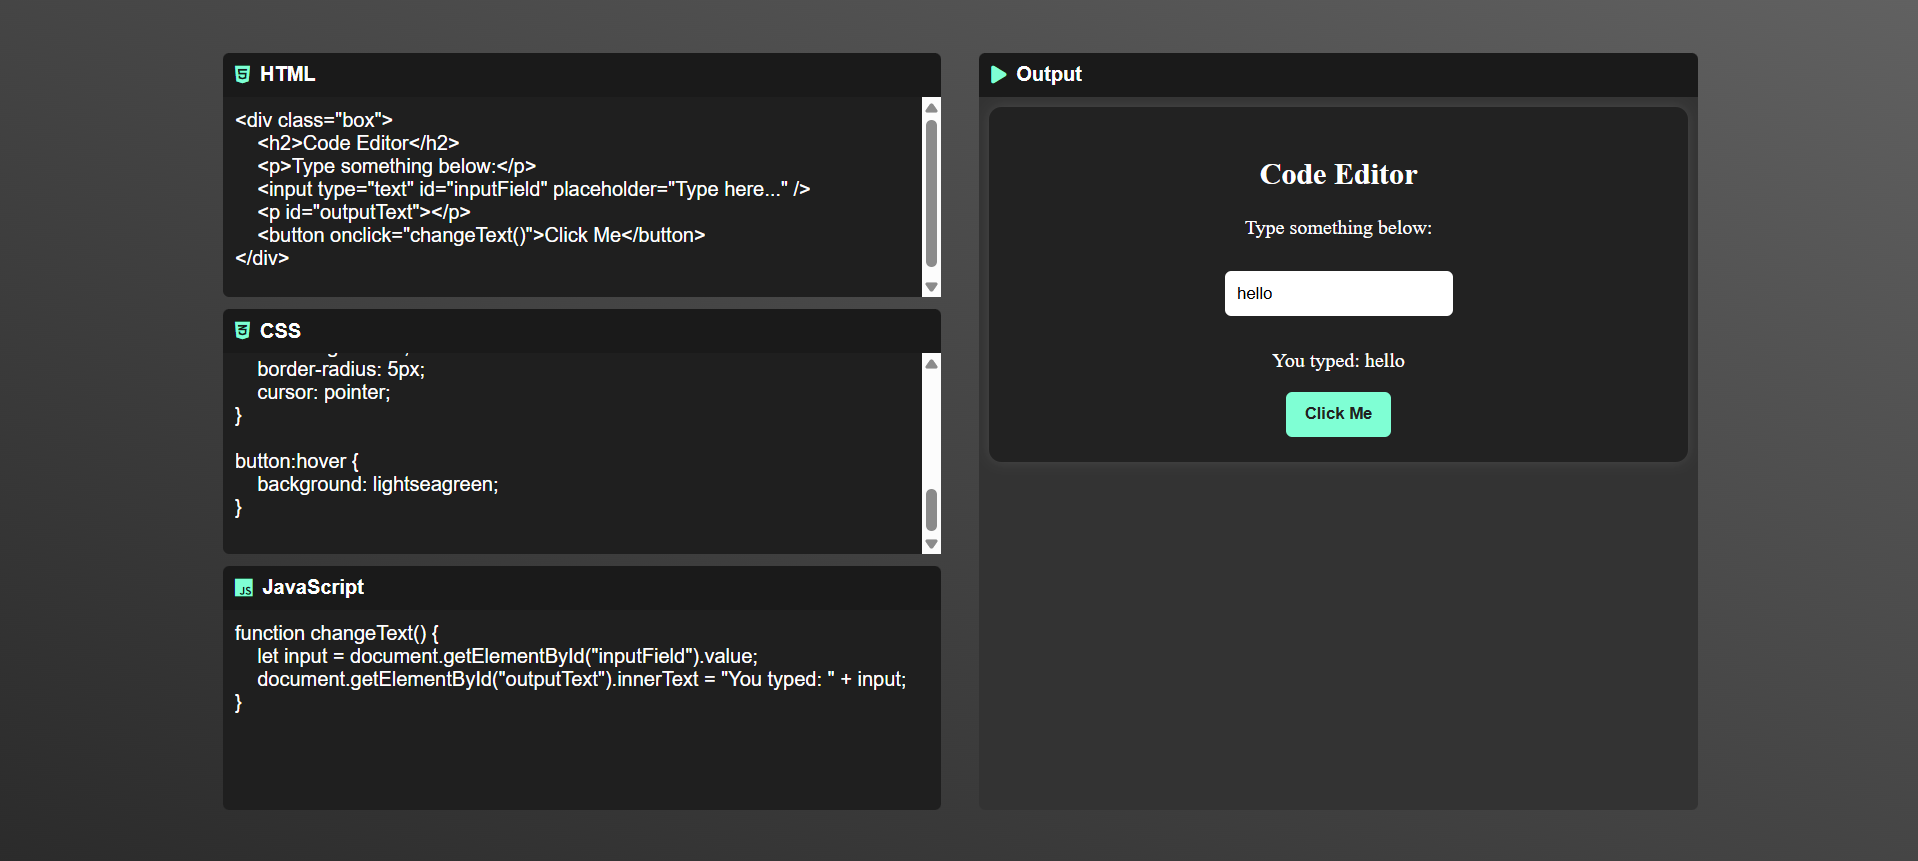
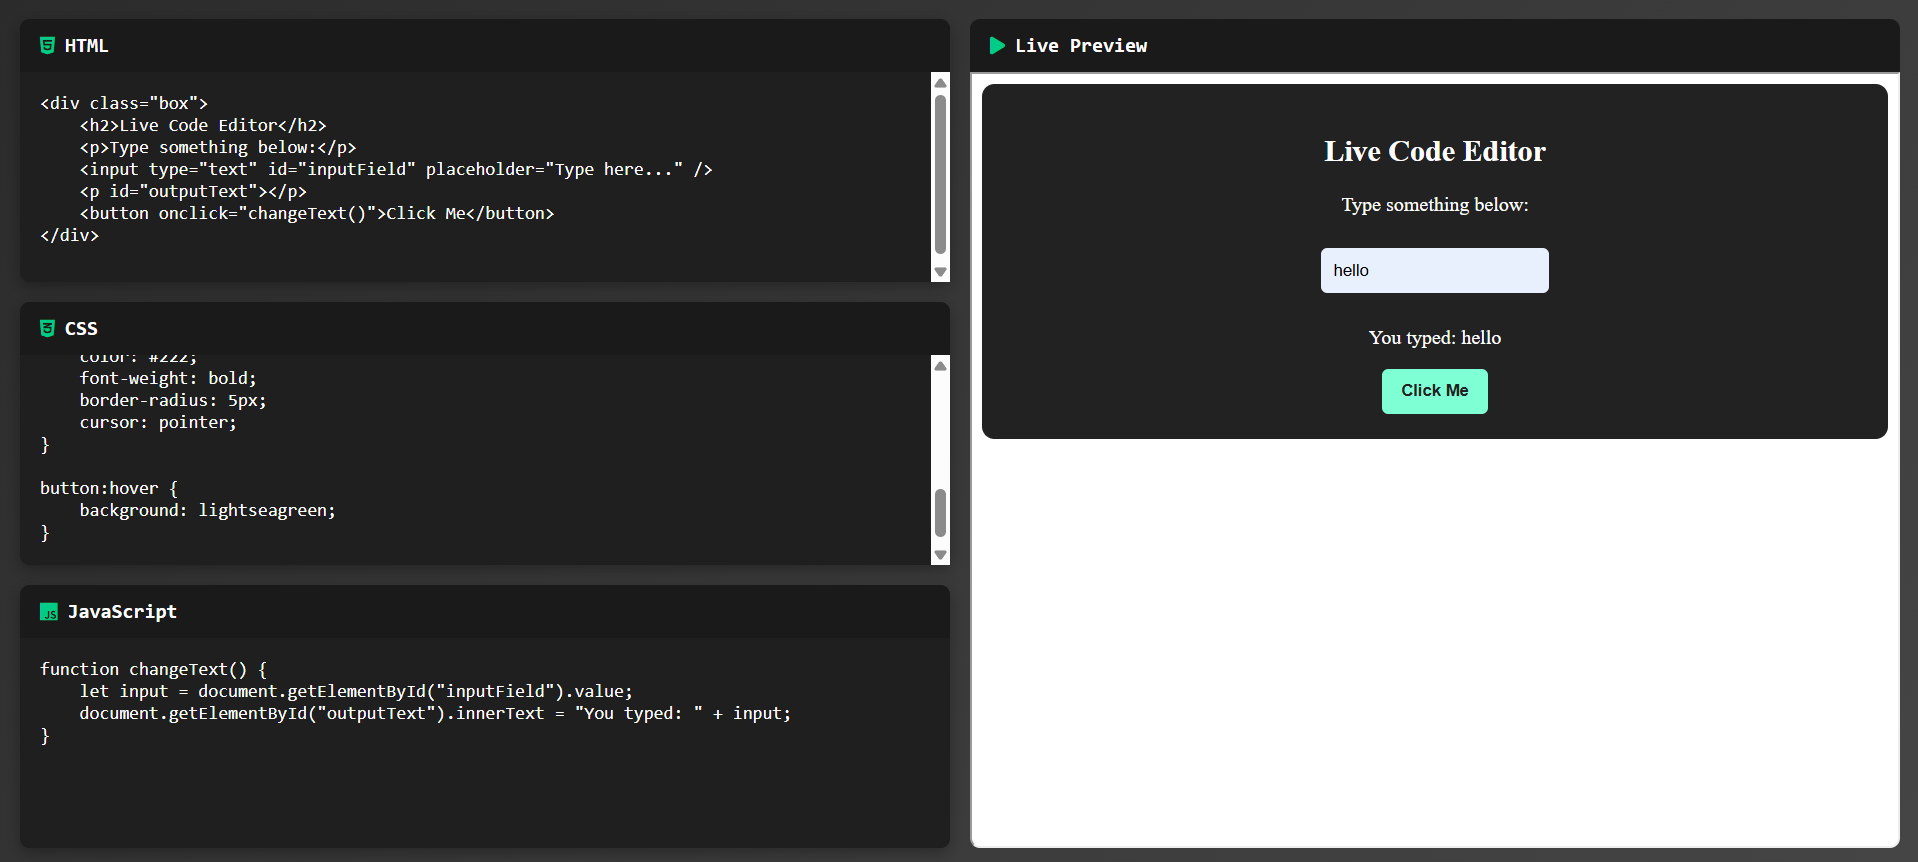
added

diff --git a/style.css b/style.css
@@ -1,102 +1,95 @@
+/* style.css */
+:root {
+    --primary-bg: #1a1a1a;
+    --editor-bg: #1f1f1f;
+    --accent-color: #00cc88;
+    --text-primary: #ffffff;
+    --border-radius: 8px;
+}
+
 * {
     margin: 0;
     padding: 0;
     box-sizing: border-box;
-    font-family: 'Poppins', sans-serif;
 }
 
 body {
-    background: linear-gradient(to right top, #2b2b2b, #383838, #454545, #525252, #616161);
-    color: #fff;
-    height: 100vh;
-    display: flex;
-    align-items: center;
-    justify-content: center;
+    background: linear-gradient(135deg, #2b2b2b, #454545);
+    color: var(--text-primary);
+    min-height: 100vh;
+    font-family: 'Fira Code', monospace;
 }
 
 .container {
-    width: 90%;
-    max-width: 1200px;
-    height: 90vh;
     display: flex;
-    gap: 10px;
+    gap: 1rem;
+    padding: 1rem;
+    height: 100vh;
 }
 
-.left, .right {
-    flex: 1;
-    padding: 10px;
-}
-
-.left {
-    display: flex;
-    flex-direction: column;
-    gap: 10px;
-}
-
-.box {
+.editor-panel {
     flex: 1;
     display: flex;
     flex-direction: column;
+    gap: 1rem;
+}
+
+.preview-panel {
+    flex: 1;
+    display: flex;
+    flex-direction: column;
+}
+
+.editor-box {
+    flex: 1;
+    display: flex;
+    flex-direction: column;
+    background: var(--primary-bg);
+    border-radius: var(--border-radius);
+    box-shadow: 0 4px 12px rgba(0, 0, 0, 0.3);
+}
+
+.editor-label, .preview-label {
+    padding: 0.75rem 1rem;
+    background: var(--primary-bg);
+    border-radius: var(--border-radius) var(--border-radius) 0 0;
+    display: flex;
+    align-items: center;
+    gap: 0.5rem;
+    font-weight: 600;
 }
 
 textarea {
     flex: 1;
-    width: 100%;
-    resize: none;
-    background-color: #1f1f1f;
-    color: #fff;
-    padding: 10px;
+    background: var(--editor-bg);
+    color: var(--text-primary);
     border: none;
-    outline: none;
-    font-size: 16px;
-    border-radius: 0px 0px 5px 5px;
-    transition: background 0.3s;
+    padding: 1rem;
+    font-family: 'Fira Code', monospace;
+    font-size: 0.9rem;
+    resize: none;
+    border-radius: 0 0 var(--border-radius) var(--border-radius);
+    transition: all 0.3s ease;
 }
 
 textarea:focus {
-    background-color: #2a2a2a;
+    outline: 2px solid var(--accent-color);
+    box-shadow: 0 0 12px rgba(0, 204, 136, 0.2);
 }
 
-.right {
-    display: flex;
-    flex-direction: column;
-}
-
-iframe {
+#output {
     flex: 1;
-    width: 100%;
-    border: none;
-    background-color: #333;
-    border-radius: 0px 0px 5px 5px;
+    background: white;
+    border-radius: 0 0 var(--border-radius) var(--border-radius);
 }
 
-label {
-    display: flex;
-    align-items: center;
-    background-color: #1a1a1a;
-    height: 35px;
-    padding: 5px 10px;
-    font-weight: bold;
-    border-radius: 5px 5px 0 0;
+.fa-brands, .fa-solid {
+    color: var(--accent-color);
 }
 
-label i {
-    margin-right: 8px;
-    color: aquamarine;
-}
-
-/* Responsive Enhancements */
 @media (max-width: 768px) {
     .container {
         flex-direction: column;
         height: auto;
-    }
-
-    .left, .right {
-        width: 100%;
-    }
-
-    textarea {
-        font-size: 14px;
     }
 }

diff --git a/index.html b/index.html
@@ -1,35 +1,51 @@
+<!-- index.html -->
 <!DOCTYPE html>
 <html lang="en">
 <head>
     <meta charset="UTF-8">
     <meta name="viewport" content="width=device-width, initial-scale=1.0">
     <title>Live Code Editor</title>
-    <link rel="stylesheet" href="style.css">
     <link rel="stylesheet" href="https://cdnjs.cloudflare.com/ajax/libs/font-awesome/6.4.2/css/all.min.css">
+    <link rel="stylesheet" href="style.css">
 </head>
 <body>
-
     <div class="container">
-        <div class="left">
-            <div class="box">
-                <label for="html-code"><i class="fa-brands fa-html5"></i> HTML</label>
-                <textarea id="html-code" aria-label="HTML Editor"></textarea>
+        <div class="editor-panel">
+            <!-- HTML Editor -->
+            <div class="editor-box">
+                <label class="editor-label">
+                    <i class="fa-brands fa-html5"></i>
+                    HTML
+                </label>
+                <textarea id="html-code" placeholder="Enter HTML here..."></textarea>
             </div>
 
-            <div class="box">
-                <label for="css-code"><i class="fa-brands fa-css3-alt"></i> CSS</label>
-                <textarea id="css-code" aria-label="CSS Editor"></textarea>
+            <!-- CSS Editor -->
+            <div class="editor-box">
+                <label class="editor-label">
+                    <i class="fa-brands fa-css3-alt"></i>
+                    CSS
+                </label>
+                <textarea id="css-code" placeholder="Enter CSS here..."></textarea>
             </div>
 
-            <div class="box">
-                <label for="js-code"><i class="fa-brands fa-js"></i> JavaScript</label>
-                <textarea id="js-code" aria-label="JavaScript Editor"></textarea>
+            <!-- JavaScript Editor -->
+            <div class="editor-box">
+                <label class="editor-label">
+                    <i class="fa-brands fa-js"></i>
+                    JavaScript
+                </label>
+                <textarea id="js-code" placeholder="Enter JavaScript here..."></textarea>
             </div>
         </div>
 
-        <div class="right">
-            <label for="output"><i class="fa-solid fa-play"></i> Output</label>
-            <iframe id="output"></iframe>
+        <!-- Output Preview -->
+        <div class="preview-panel">
+            <label class="preview-label">
+                <i class="fa-solid fa-play"></i>
+                Live Preview
+            </label>
+            <iframe id="output" title="Live Code Preview"></iframe>
         </div>
     </div>
 

diff --git a/script.js b/script.js
@@ -1,36 +1,41 @@
-function run() {
-    let htmlCode = document.getElementById("html-code").value;
-    let cssCode = document.getElementById("css-code").value;
-    let jsCode = document.getElementById("js-code").value;
-    let output = document.getElementById("output");
+// script.js
+document.addEventListener('DOMContentLoaded', () => {
+    const editors = {
+        html: document.getElementById('html-code'),
+        css: document.getElementById('css-code'),
+        js: document.getElementById('js-code'),
+        output: document.getElementById('output')
+    };
 
-    const documentContent = `
-        <html>
-            <head>
-                <style>${cssCode}</style>
-            </head>
-            <body>
-                ${htmlCode}
-                <script>
-                    try {
-                        ${jsCode}
-                    } catch (error) {
-                        console.error(error);
-                    }
-                </script>
-            </body>
-        </html>`;
+    // Debounce function for better performance
+    const debounce = (callback, delay = 300) => {
+        let timeout;
+        return (...args) => {
+            clearTimeout(timeout);
+            timeout = setTimeout(() => callback(...args), delay);
+        };
+    };
 
-    output.contentDocument.open();
-    output.contentDocument.write(documentContent);
-    output.contentDocument.close();
-}
+    const updatePreview = () => {
+        try {
+            const html = editors.html.value;
+            const css = `<style>${editors.css.value}</style>`;
+            const js = editors.js.value;
+            
+            const doc = editors.output.contentDocument;
+            doc.open();
+            doc.write(`${html}${css}<script>${js}<\/script>`);
+            doc.close();
+        } catch (error) {
+            console.error('Error updating preview:', error);
+        }
+    };
 
-// Debounce function to prevent excessive function calls on keyup
-let timeout;
-document.querySelectorAll("textarea").forEach((textarea) => {
-    textarea.addEventListener("keyup", () => {
-        clearTimeout(timeout);
-        timeout = setTimeout(run, 500);
-    });
+    // Event listeners with debouncing
+    editors.html.addEventListener('input', debounce(updatePreview));
+    editors.css.addEventListener('input', debounce(updatePreview));
+    editors.js.addEventListener('input', debounce(updatePreview));
+
+    // Initial preview
+    updatePreview();
 });
